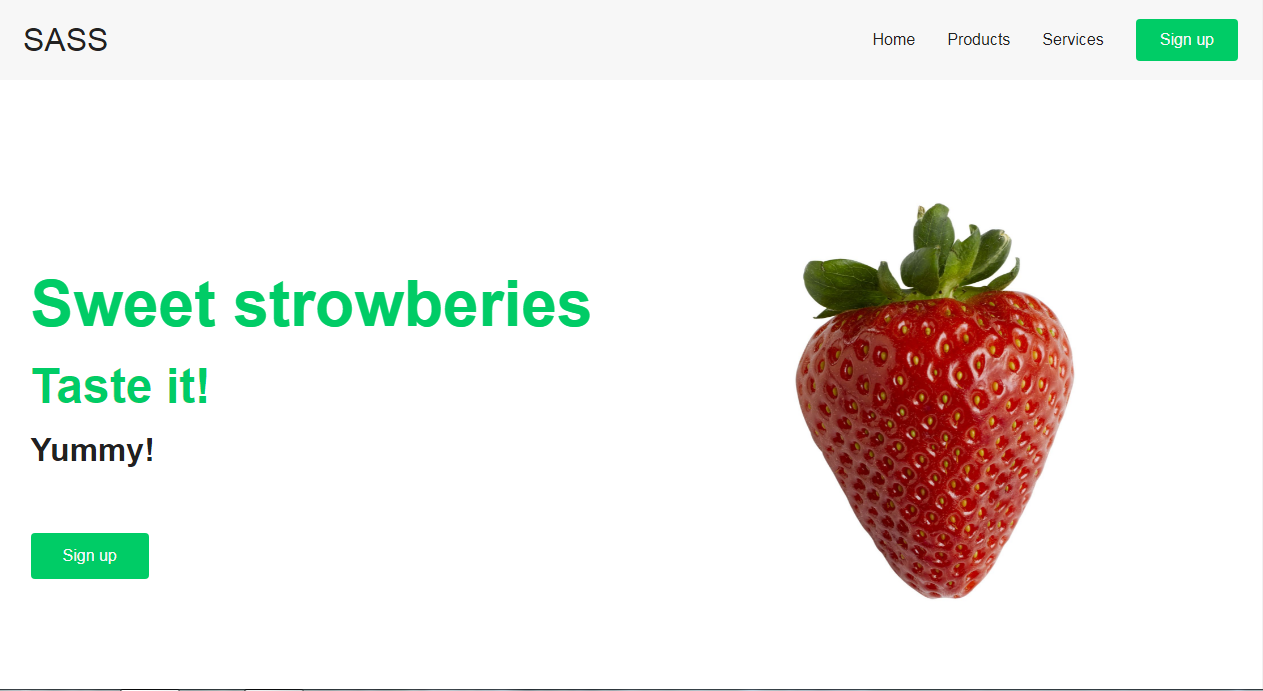
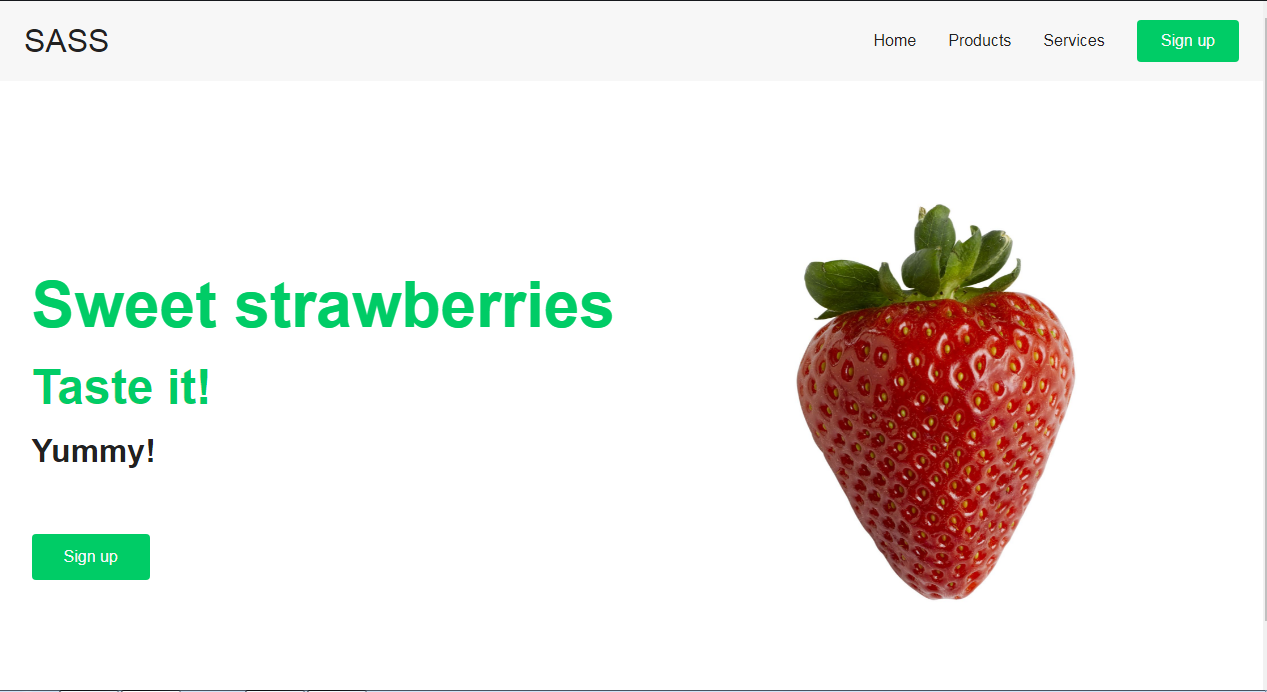
change

diff --git a/Sass-responsive-website/public/index.html b/Sass-responsive-website/public/index.html
@@ -27,7 +27,7 @@
 <div class="hero">
     <div class="container">
         <div class="container-left">
-            <h1>Sweet strowberies</h1>
+            <h1>Sweet strawberries</h1>
             <h2>Taste it!</h2>
             <p>Yummy!</p>
             <button class="container-left--btn"><a href="#">Sign up</a></button>
